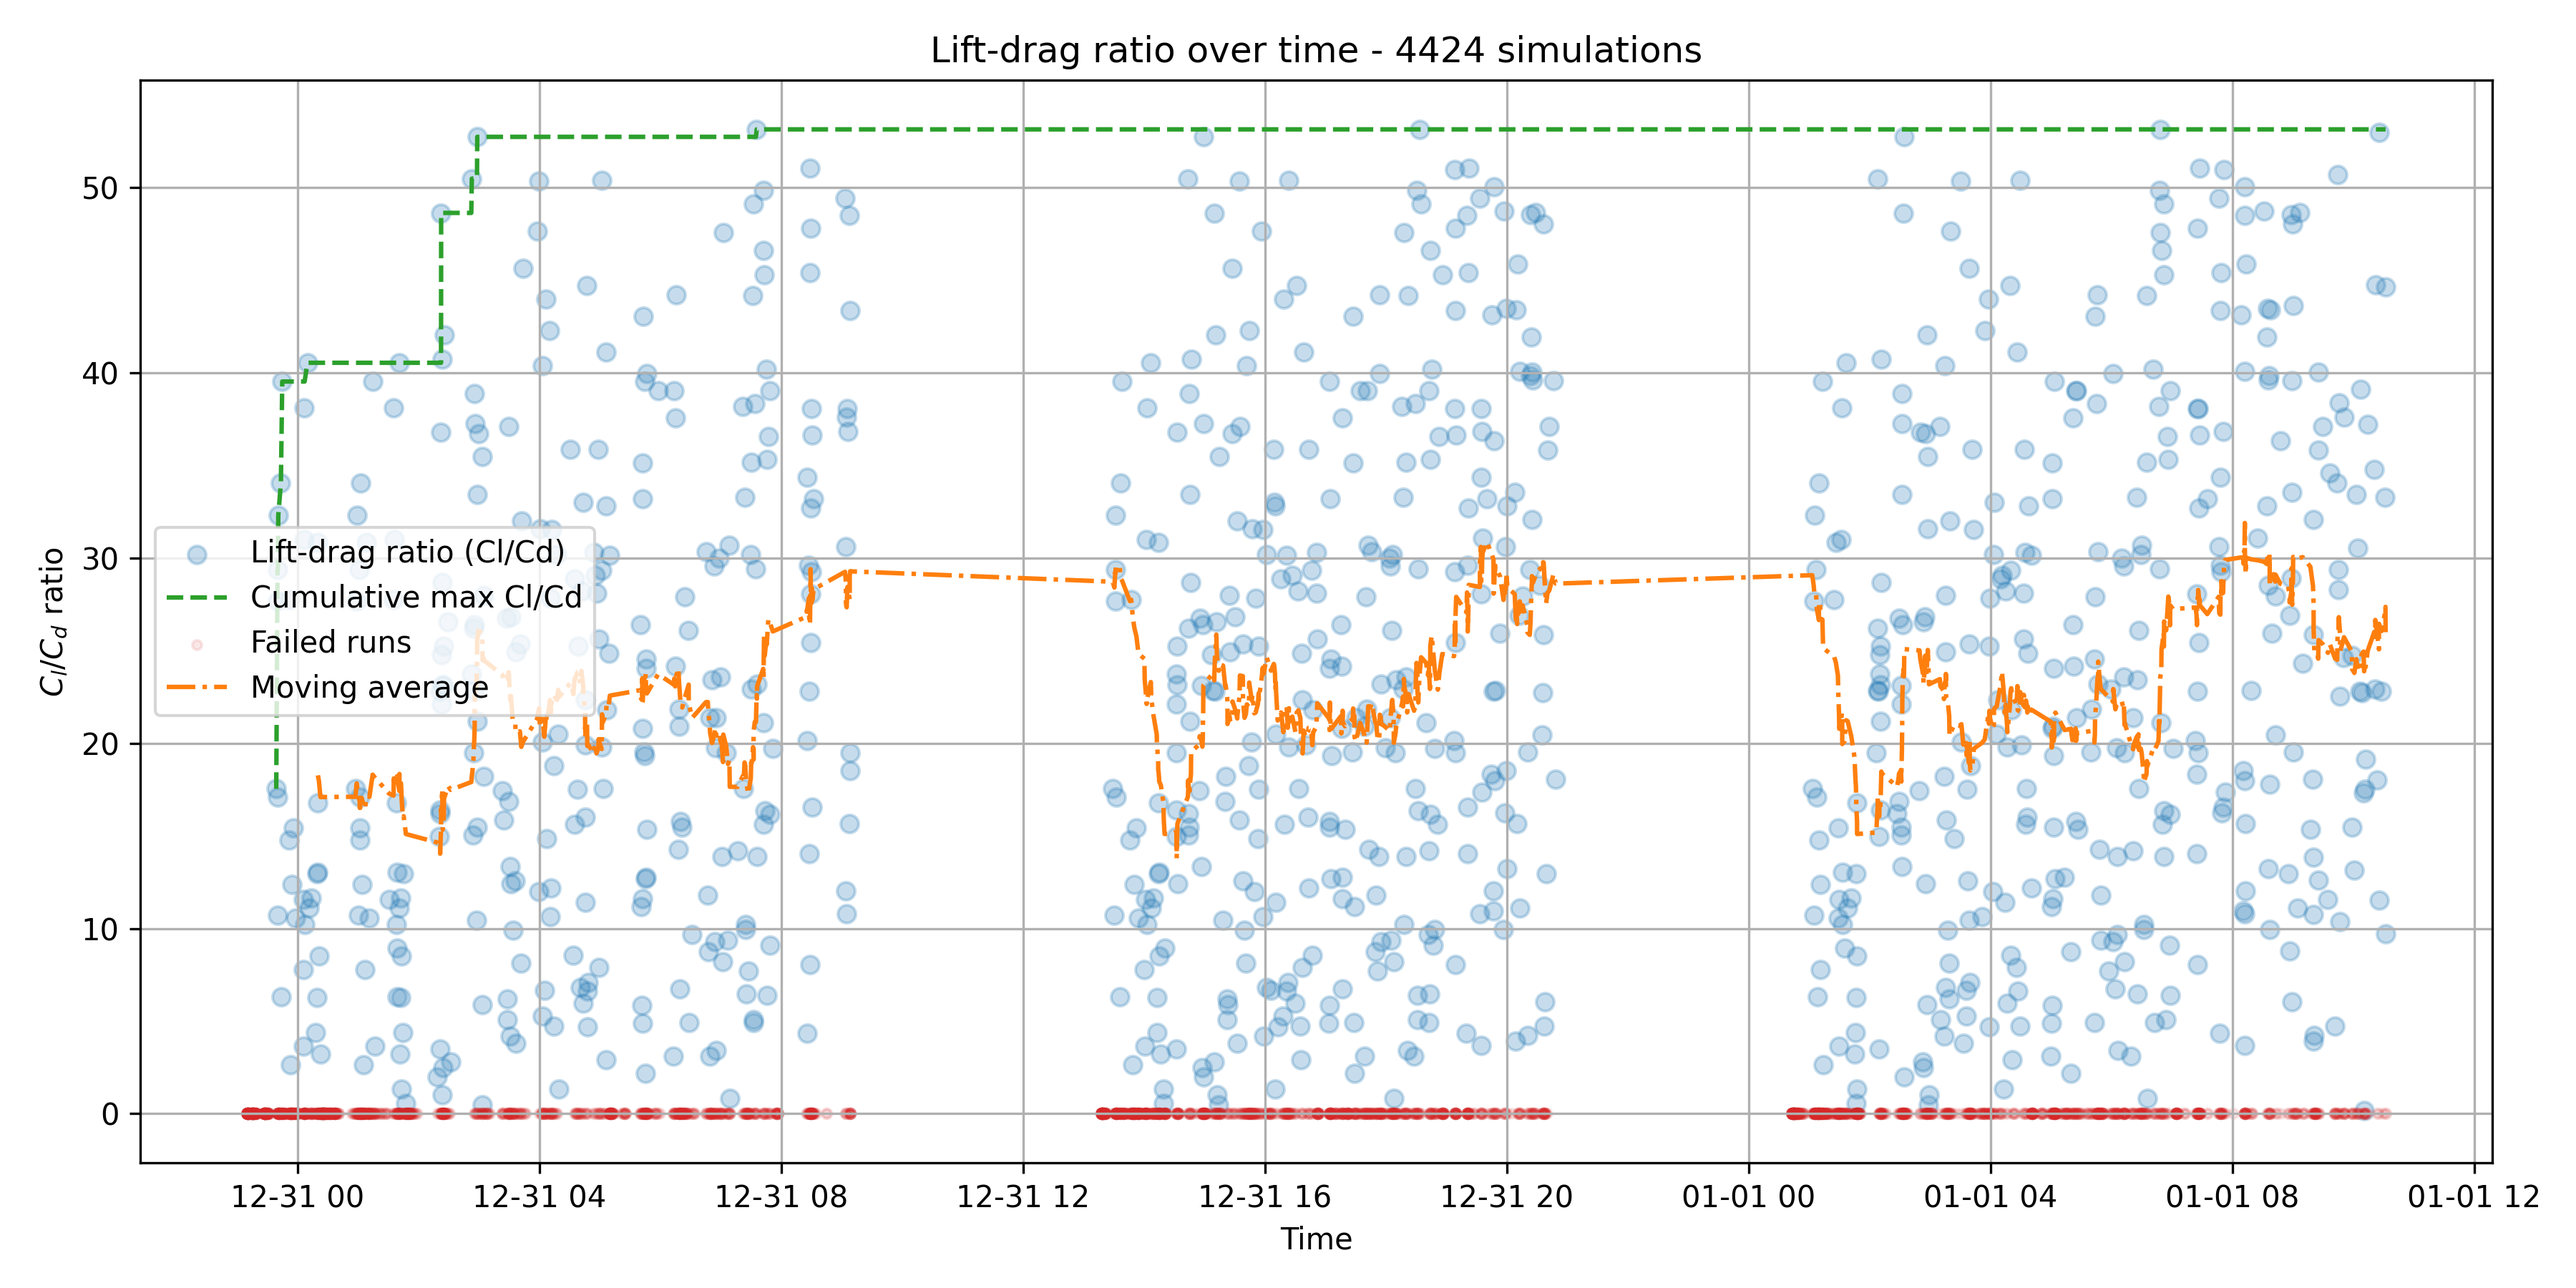
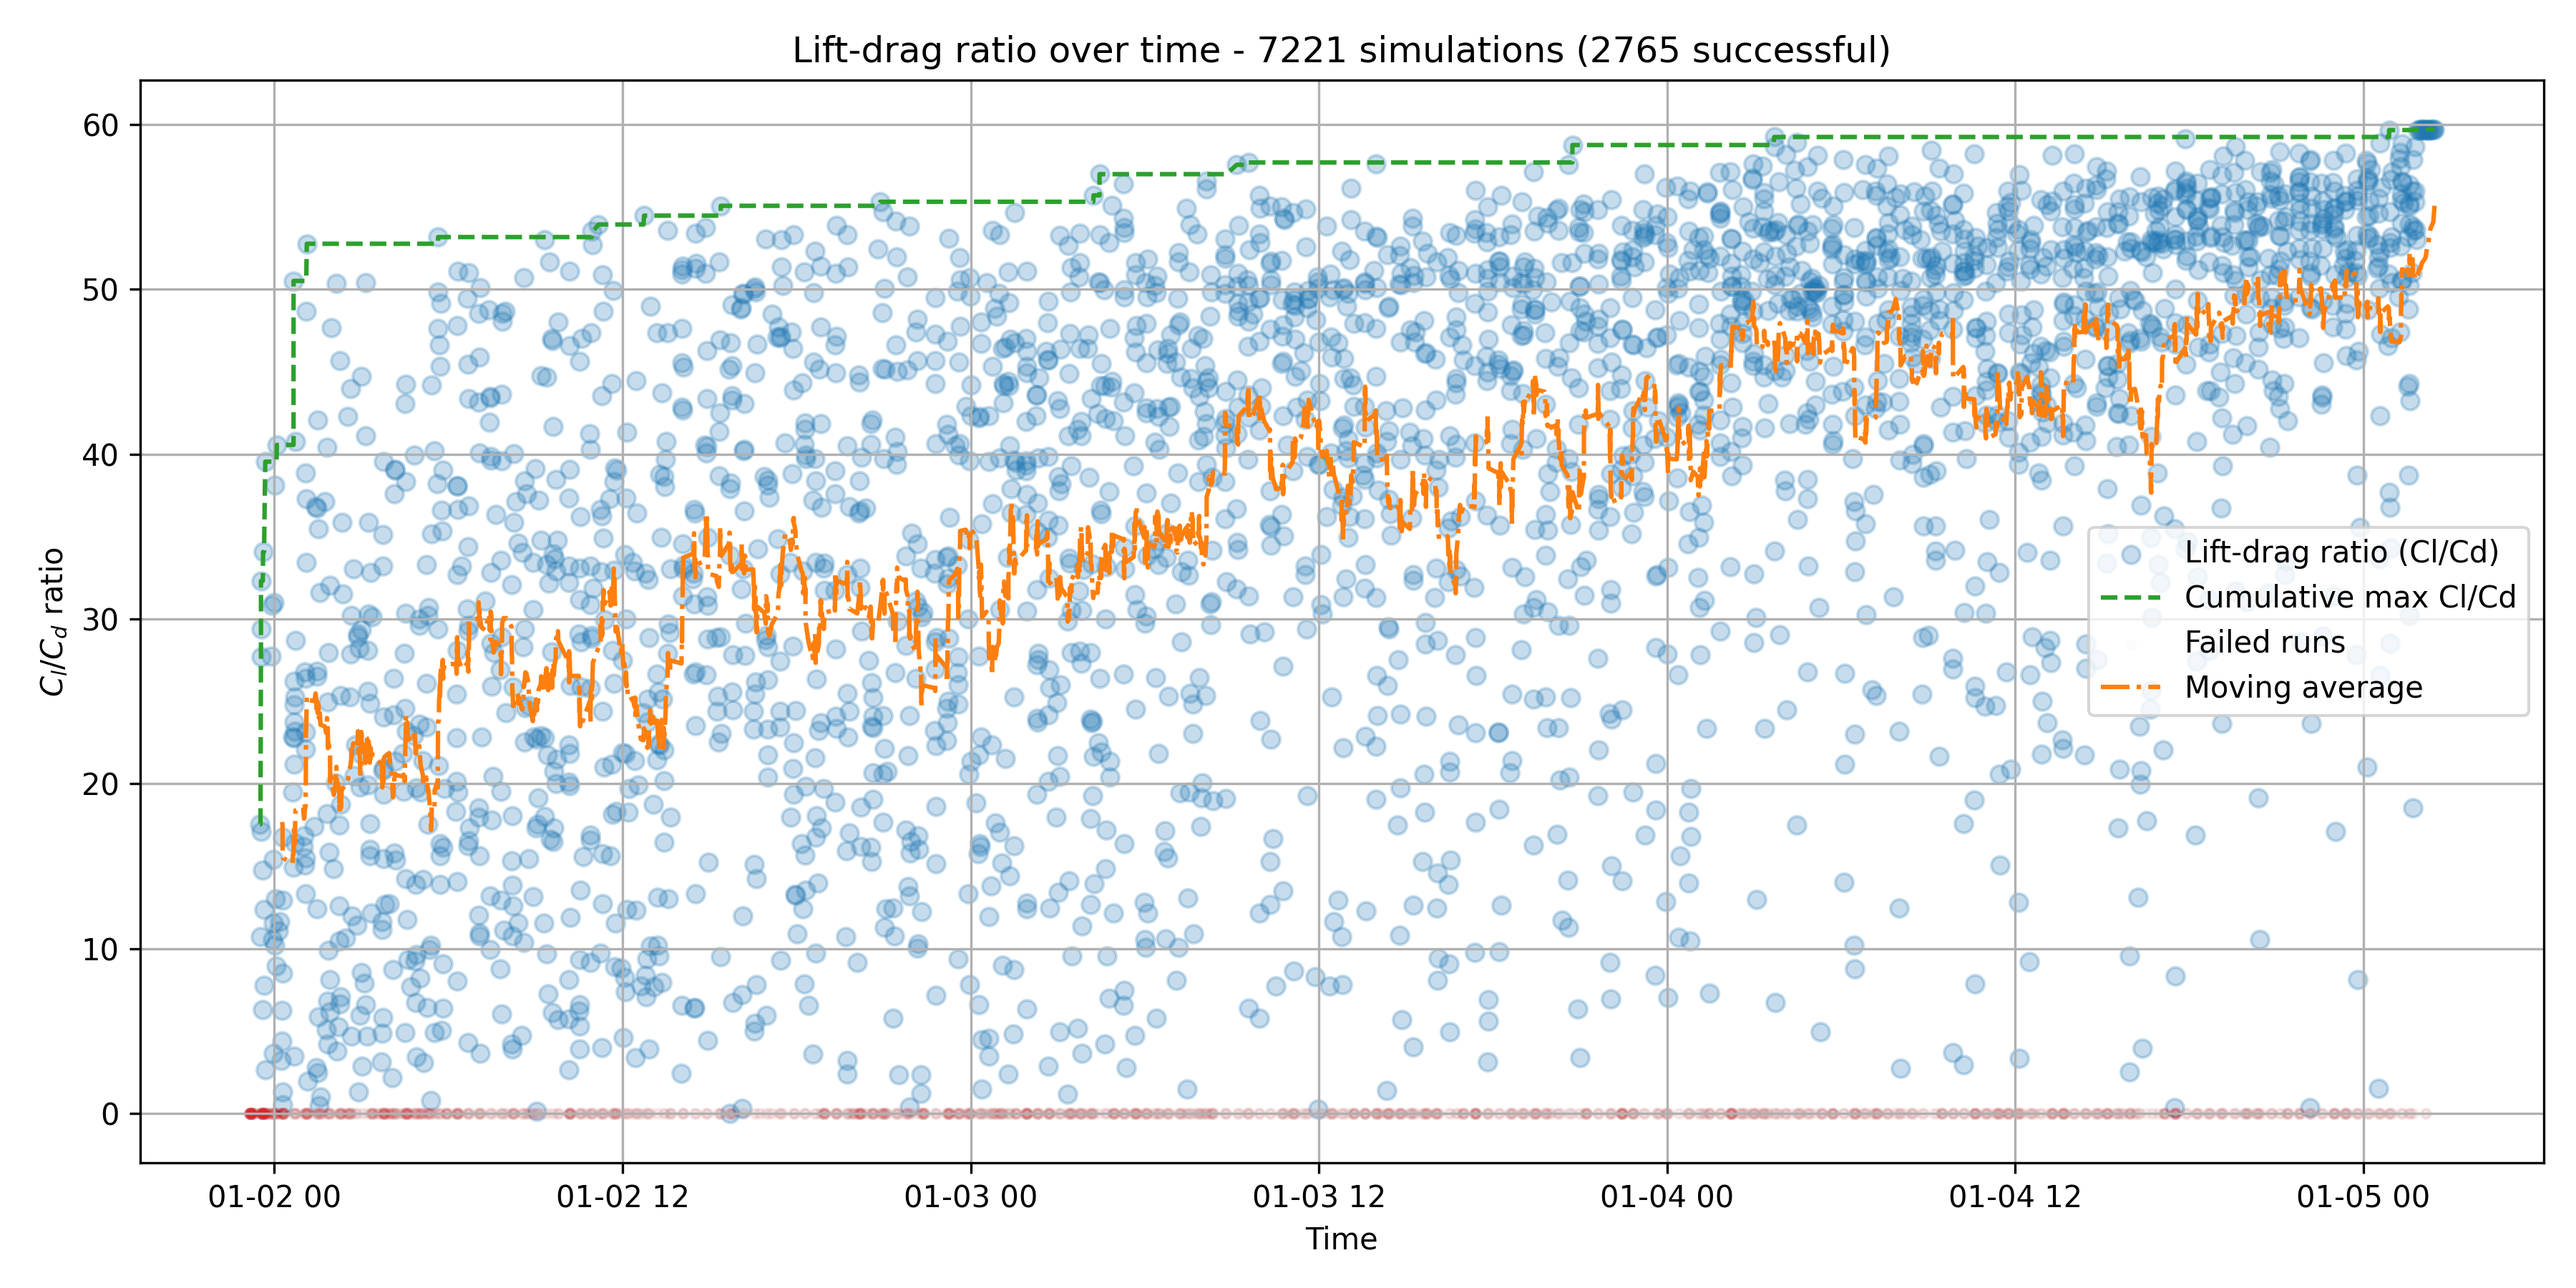
Refactored the code a bit, finalized simulation run

diff --git a/src/utils/openfoam_interfaces.py b/src/utils/openfoam_interfaces.py
@@ -1,0 +1,124 @@
+import re
+import subprocess
+from pathlib import Path
+
+import numpy as np
+import pandas as pd
+
+from .logging_setup import get_logger
+
+
+def run_blockmesh(case_path: Path):
+    logger = get_logger(__name__)
+
+    result = subprocess.run(
+        ["blockMesh"],
+        cwd=case_path,
+        stdout=subprocess.PIPE,
+        stderr=subprocess.PIPE,
+        text=True,
+    )
+
+    logger.debug(f"blockMesh: {result.returncode}")
+
+    return result.returncode == 0
+
+
+def run_checkmesh(case_path: Path):
+    logger = get_logger(__name__)
+
+    result = subprocess.run(
+        ["checkMesh"],
+        cwd=case_path,
+        stdout=subprocess.PIPE,
+        stderr=subprocess.PIPE,
+        text=True,
+    )
+
+    logger.debug(f"checkMesh: {result.returncode}")
+    logger.debug(f"Output:\n{result.stdout}")
+
+    if result.returncode == 0:
+        mesh_checks_failed = re.search(
+            pattern="Failed ([0-9]+) mesh checks", string=result.stdout
+        )
+        mesh_okay = "Mesh OK." in result.stdout
+
+        if mesh_okay:
+            logger.debug("Mesh OK!")
+            return True
+
+        if mesh_checks_failed:
+            logger.warning(f"Mesh checks failed: {mesh_checks_failed.group(1)}")
+            return False
+
+    return False
+
+
+def run_simple(case_path: Path, case_uuid: str):
+    logger = get_logger(__name__)
+
+    result = subprocess.run(
+        ["simpleFoam"],
+        cwd=case_path,
+        stdout=subprocess.PIPE,
+        stderr=subprocess.PIPE,
+        text=True,
+    )
+
+    if not result.returncode == 0:
+        logger.debug(f"Case UUID: {case_uuid}\n{result.stderr}")
+        logger.warning("Failed to run SIMPLE.")
+
+    return result.returncode == 0
+
+
+def set_fluid_velocities(case_path: Path, v: np.array):
+    velocity_magnitude = np.linalg.norm(v)
+
+    with open(case_path / "system/controlDict", "r") as f:
+        control_dict_template = f.read()
+
+    with open(case_path / "0/U", "r") as f:
+        u_template = f.read()
+
+    control_dict_template = control_dict_template.replace(
+        "{{v_magnitude}}", str(velocity_magnitude)
+    )
+
+    alpha = np.arctan2(v[1], v[0])
+
+    lift_x = -np.sin(alpha)
+    lift_y = np.cos(alpha)
+    lift_z = 0.0
+    drag_x = np.cos(alpha)
+    drag_y = np.sin(alpha)
+    drag_z = 0.0
+
+    control_dict_template = control_dict_template.replace("{{lift_x}}", str(lift_x))
+    control_dict_template = control_dict_template.replace("{{lift_y}}", str(lift_y))
+    control_dict_template = control_dict_template.replace("{{lift_z}}", str(lift_z))
+    control_dict_template = control_dict_template.replace("{{drag_x}}", str(drag_x))
+    control_dict_template = control_dict_template.replace("{{drag_y}}", str(drag_y))
+    control_dict_template = control_dict_template.replace("{{drag_z}}", str(drag_z))
+
+    u_template = u_template.replace("{{v_x}}", str(v[0]))
+    u_template = u_template.replace("{{v_y}}", str(v[1]))
+    u_template = u_template.replace("{{v_z}}", str(v[2]))
+
+    with open(case_path / "system/controlDict", "w") as f:
+        control_dict_template = f.write(control_dict_template)
+
+    with open(case_path / "0/U", "w") as f:
+        u_template = f.write(u_template)
+
+
+def read_force_coefficients(case_path: Path):
+    force_coefficients_path = case_path / Path(
+        r"postProcessing/forceCoeffs/0/coefficient.dat"
+    )
+
+    df = pd.read_csv(force_coefficients_path, skiprows=12, sep="\t")
+    df.columns = [column_name.strip() for column_name in df.columns]
+
+    return df

diff --git a/src/optimization/optimization.py b/src/optimization/optimization.py
@@ -5,14 +5,14 @@ import numpy as np
 
 from src.airfoil_mesher.airfoil_mesher import mesh_airfoil
 from src.kulfan_converter.kulfan_to_coord import CST_shape
-from src.optimization.openfoam_interfaces import (
+from src.utils.logging_setup import get_logger
+from src.utils.openfoam_interfaces import (
     read_force_coefficients,
     run_blockmesh,
     run_checkmesh,
     run_simple,
     set_fluid_velocities,
 )
-from src.utils.logging_setup import get_logger
 
 from ..optimization.parameters import Parameters  # type: ignore
 from ..optimization.result_processing import process_result  # type: ignore
